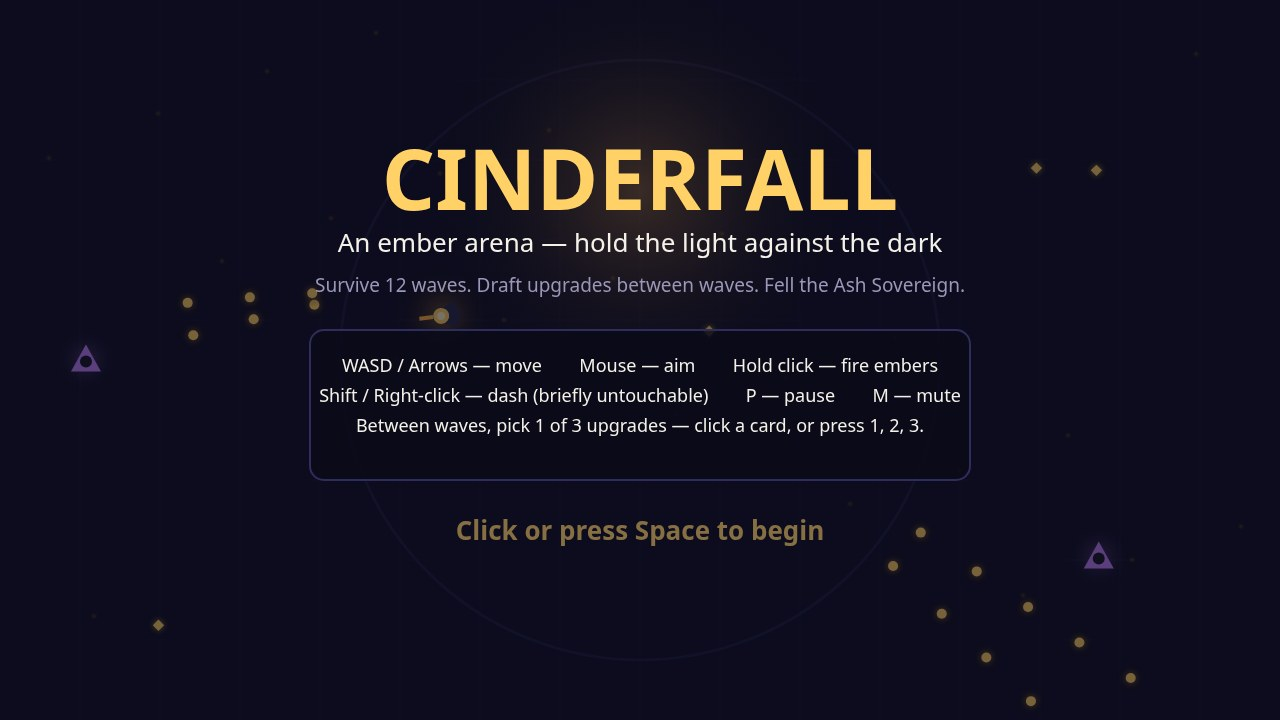
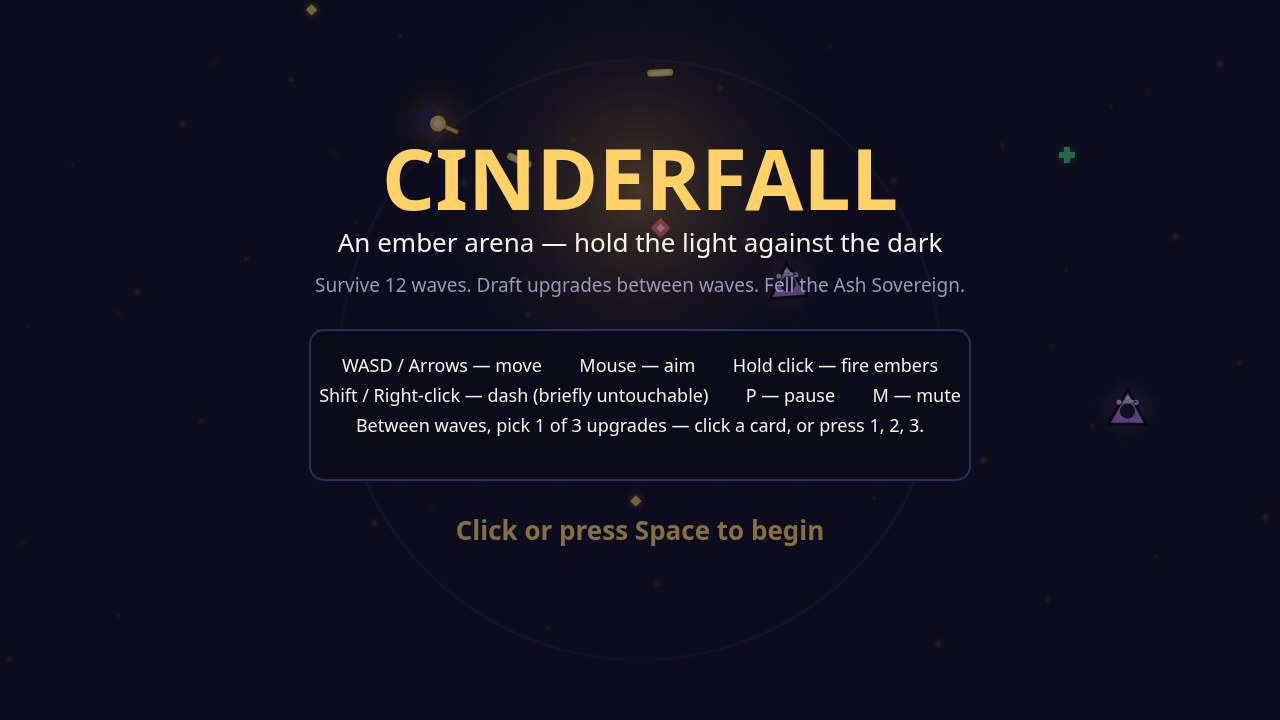
CINDERFALL fix: readable enemies, denser waves, re-captured play frame
- Every enemy kind gets its own silhouette + colour + size, all distinct
  from the player bolts (now long white-yellow capsules) and enemy fire
  (now magenta diamonds): mote is an 8-point deep-orange star, wisp a teal
  ghost with a tail, spitter a violet triangle, brute a riveted red hex,
  elites wear a spiked gold crown-ring. Dark outlines throughout.
- Density +25% via spawn budget (8 + wave*5), tighter trickle interval,
  cluster spawns from wave 5, more boss adds. No HP scaling.
- Play shot re-staged to 12s into wave 11 (12 enemies alive, all four
  kinds); ambient embers doubled.
- Verified: kit check 4 pass / 1 expected fail, gate replica all pass,
  dossier 2x byte-identical, autopilot seed 7 wins 17609 / 221 kills.

diff --git a/game/src/render.js b/game/src/render.js
@@ -61,11 +61,17 @@ export function createRenderer(canvas, fx) {
     ctx.beginPath();
     ctx.arc(FIELD.width / 2, FIELD.height / 2, 300, 0, Math.PI * 2);
     ctx.stroke();
-    // Drifting embers in the dark, purely decorative.
-    for (let i = 0; i < 24; i += 1) {
+    // Drifting embers in the dark, purely decorative — two layers, so the
+    // arena reads as a place even between waves. Deterministic in `time`.
+    for (let i = 0; i < 44; i += 1) {
       const x = ((i * 173 + time * 12) % (FIELD.width + 40)) - 20;
       const y = 40 + ((i * 97) % (FIELD.height - 80)) + Math.sin(time * 0.7 + i) * 8;
-      drawGlow(ctx, x, y, 5, '#ffb347', 0.25);
+      drawGlow(ctx, x, y, 4 + (i % 3) * 2, '#ffb347', 0.2 + (i % 3) * 0.06);
+    }
+    for (let i = 0; i < 10; i += 1) {
+      const x = ((i * 311 + time * 7) % (FIELD.width + 60)) - 30;
+      const y = 60 + ((i * 211) % (FIELD.height - 120)) + Math.cos(time * 0.5 + i * 2) * 10;
+      drawGlow(ctx, x, y, 10, '#ff8c42', 0.1);
     }
   }
 
@@ -123,6 +129,9 @@ export function createRenderer(canvas, fx) {
       ctx.beginPath();
       ctx.arc(0, 0, enemy.radius, 0, Math.PI * 2);
       ctx.fill();
+      ctx.strokeStyle = '#0b0b16';
+      ctx.lineWidth = 4;
+      ctx.stroke();
       ctx.fillStyle = '#1a1a2e';
       ctx.beginPath();
       ctx.arc(0, 0, enemy.radius * 0.62, 0, Math.PI * 2);
@@ -140,32 +149,55 @@ export function createRenderer(canvas, fx) {
       ctx.lineTo(enemy.radius * 1.25, -enemy.radius * 1.25);
       ctx.stroke();
     } else if (enemy.kind === 'mote') {
+      // An eight-point ember star: deep orange, dark core, white-hot heart.
+      // Nothing else in the game is a star, so it can never read as a bolt.
       ctx.rotate(time * 2 + enemy.phase);
       ctx.fillStyle = enemy.color;
-      for (let i = 0; i < 4; i += 1) {
-        ctx.rotate(Math.PI / 2);
+      ctx.beginPath();
+      for (let i = 0; i < 16; i += 1) {
+        const a = (i / 16) * Math.PI * 2;
+        const r = i % 2 === 0 ? enemy.radius : enemy.radius * 0.45;
+        const px = Math.cos(a) * r;
+        const py = Math.sin(a) * r;
+        if (i === 0) ctx.moveTo(px, py);
+        else ctx.lineTo(px, py);
+      }
+      ctx.closePath();
+      ctx.fill();
+      ctx.strokeStyle = '#0b0b16';
+      ctx.lineWidth = 2.5;
+      ctx.stroke();
+      ctx.fillStyle = '#1a1a2e';
+      ctx.beginPath();
+      ctx.arc(0, 0, enemy.radius * 0.42, 0, Math.PI * 2);
+      ctx.fill();
+      ctx.fillStyle = '#fff3c4';
+      ctx.beginPath();
+      ctx.arc(0, 0, enemy.radius * 0.2, 0, Math.PI * 2);
+      ctx.fill();
+    } else if (enemy.kind === 'wisp') {
+      // A teal ghost: round head, wavy trailing tail, two white eyes.
+      const tail = Math.sin(time * 6 + enemy.phase) * 4;
+      ctx.fillStyle = enemy.color;
+      for (let i = 1; i <= 3; i += 1) {
         ctx.beginPath();
-        ctx.moveTo(0, -enemy.radius);
-        ctx.lineTo(4, 0);
-        ctx.lineTo(-4, 0);
-        ctx.closePath();
+        ctx.arc(-i * enemy.radius * 0.55, tail * (i / 3), enemy.radius * (0.7 - i * 0.16), 0, Math.PI * 2);
         ctx.fill();
       }
       ctx.beginPath();
-      ctx.arc(0, 0, enemy.radius * 0.55, 0, Math.PI * 2);
-      ctx.fillStyle = '#fff3c4';
-      ctx.fill();
-    } else if (enemy.kind === 'wisp') {
-      ctx.fillStyle = enemy.color;
-      ctx.beginPath();
       ctx.arc(0, 0, enemy.radius * (1 + wobble), 0, Math.PI * 2);
       ctx.fill();
-      ctx.fillStyle = 'rgba(255,255,255,0.85)';
+      ctx.strokeStyle = '#0b0b16';
+      ctx.lineWidth = 2.5;
+      ctx.stroke();
+      ctx.fillStyle = 'rgba(255,255,255,0.9)';
       ctx.beginPath();
-      ctx.arc(-4, -3, 3, 0, Math.PI * 2);
-      ctx.arc(4, -3, 3, 0, Math.PI * 2);
+      ctx.arc(-5, -4, 3.5, 0, Math.PI * 2);
+      ctx.arc(5, -4, 3.5, 0, Math.PI * 2);
       ctx.fill();
     } else if (enemy.kind === 'spitter') {
+      // A violet arrowhead: a triangle with a dark maw and three pale dots.
+      ctx.rotate(Math.sin(time * 1.5 + enemy.phase) * 0.15);
       ctx.fillStyle = enemy.color;
       ctx.beginPath();
       ctx.moveTo(0, -enemy.radius);
@@ -173,12 +205,21 @@ export function createRenderer(canvas, fx) {
       ctx.lineTo(-enemy.radius, enemy.radius * 0.8);
       ctx.closePath();
       ctx.fill();
+      ctx.strokeStyle = '#0b0b16';
+      ctx.lineWidth = 3;
+      ctx.stroke();
       ctx.fillStyle = '#1a1a2e';
       ctx.beginPath();
       ctx.arc(0, 2, enemy.radius * 0.4, 0, Math.PI * 2);
       ctx.fill();
+      ctx.fillStyle = 'rgba(255,255,255,0.85)';
+      ctx.beginPath();
+      ctx.arc(-enemy.radius * 0.45, -enemy.radius * 0.35, 2.5, 0, Math.PI * 2);
+      ctx.arc(enemy.radius * 0.45, -enemy.radius * 0.35, 2.5, 0, Math.PI * 2);
+      ctx.arc(0, -enemy.radius * 0.55, 2.5, 0, Math.PI * 2);
+      ctx.fill();
     } else {
-      // Brute: a heavy hex slab.
+      // Brute: a heavy hex slab with a dark core and rivets.
       ctx.rotate(wobble);
       ctx.fillStyle = enemy.color;
       ctx.beginPath();
@@ -191,10 +232,20 @@ export function createRenderer(canvas, fx) {
       }
       ctx.closePath();
       ctx.fill();
+      ctx.strokeStyle = '#0b0b16';
+      ctx.lineWidth = 3;
+      ctx.stroke();
       ctx.fillStyle = 'rgba(0,0,0,0.35)';
       ctx.beginPath();
       ctx.arc(0, 0, enemy.radius * 0.55, 0, Math.PI * 2);
       ctx.fill();
+      ctx.fillStyle = 'rgba(255,255,255,0.55)';
+      for (let i = 0; i < 6; i += 1) {
+        const a = (i / 6) * Math.PI * 2 + Math.PI / 6;
+        ctx.beginPath();
+        ctx.arc(Math.cos(a) * enemy.radius * 0.72, Math.sin(a) * enemy.radius * 0.72, 2.5, 0, Math.PI * 2);
+        ctx.fill();
+      }
     }
     ctx.restore();
     if (enemy.flash > 0) {
@@ -206,11 +257,26 @@ export function createRenderer(canvas, fx) {
       ctx.globalAlpha = 1;
     }
     if (enemy.elite) {
+      // Elites wear a spiked gold crown-ring: gold is theirs alone.
       ctx.strokeStyle = '#facc15';
-      ctx.lineWidth = 2;
+      ctx.lineWidth = 2.5;
       ctx.beginPath();
-      ctx.arc(enemy.x, enemy.y, enemy.radius + 5, 0, Math.PI * 2);
+      ctx.arc(enemy.x, enemy.y, enemy.radius + 6, 0, Math.PI * 2);
       ctx.stroke();
+      ctx.fillStyle = '#facc15';
+      for (let i = 0; i < 8; i += 1) {
+        const a = (i / 8) * Math.PI * 2 + time * 0.8;
+        const sx = enemy.x + Math.cos(a) * (enemy.radius + 6);
+        const sy = enemy.y + Math.sin(a) * (enemy.radius + 6);
+        const tx = enemy.x + Math.cos(a) * (enemy.radius + 13);
+        const ty = enemy.y + Math.sin(a) * (enemy.radius + 13);
+        ctx.beginPath();
+        ctx.moveTo(sx + Math.cos(a + Math.PI / 2) * 3, sy + Math.sin(a + Math.PI / 2) * 3);
+        ctx.lineTo(tx, ty);
+        ctx.lineTo(sx - Math.cos(a + Math.PI / 2) * 3, sy - Math.sin(a + Math.PI / 2) * 3);
+        ctx.closePath();
+        ctx.fill();
+      }
     }
     if (enemy.hp < enemy.maxHp && !enemy.boss) {
       const w = enemy.radius * 2;
@@ -223,18 +289,33 @@ export function createRenderer(canvas, fx) {
 
   function drawBullets(world) {
     for (const bullet of world.bullets) {
-      drawGlow(ctx, bullet.x, bullet.y, 14, '#ffb347', 0.5);
-      ctx.fillStyle = '#ffd166';
-      ctx.beginPath();
-      ctx.arc(bullet.x, bullet.y, bullet.radius, 0, Math.PI * 2);
+      // Player bolts are long white-yellow capsules with a hot core: no enemy
+      // is long, and no enemy is white-yellow, so a bolt reads as a bolt.
+      const angle = Math.atan2(bullet.vy, bullet.vx);
+      drawGlow(ctx, bullet.x, bullet.y, 12, '#fde047', 0.35);
+      ctx.save();
+      ctx.translate(bullet.x, bullet.y);
+      ctx.rotate(angle);
+      ctx.fillStyle = '#fde047';
+      roundRect(ctx, -13, -3.5, 26, 7, 3.5);
       ctx.fill();
+      ctx.fillStyle = '#fffbe6';
+      roundRect(ctx, -9, -2, 18, 4, 2);
+      ctx.fill();
+      ctx.restore();
     }
     for (const bullet of world.enemyBullets) {
-      drawGlow(ctx, bullet.x, bullet.y, 14, '#c084fc', 0.45);
-      ctx.fillStyle = '#e9d5ff';
-      ctx.beginPath();
-      ctx.arc(bullet.x, bullet.y, bullet.radius, 0, Math.PI * 2);
-      ctx.fill();
+      // Enemy fire is a magenta diamond with a pale core: a shape no enemy
+      // and no player bolt uses, in a colour no enemy uses.
+      drawGlow(ctx, bullet.x, bullet.y, 12, '#ec4899', 0.4);
+      ctx.save();
+      ctx.translate(bullet.x, bullet.y);
+      ctx.rotate(Math.PI / 4);
+      ctx.fillStyle = '#ec4899';
+      ctx.fillRect(-7, -7, 14, 14);
+      ctx.fillStyle = '#fdf2f8';
+      ctx.fillRect(-3, -3, 6, 6);
+      ctx.restore();
     }
   }
 

diff --git a/game/src/enemies.js b/game/src/enemies.js
@@ -23,14 +23,16 @@ export function buildWave(wave, random) {
   if (BOSS_WAVES.includes(wave)) {
     const boss = wave === LAST_WAVE ? 'sovereign' : 'warden';
     queue.push({ kind: boss, elite: false, delay: 1.2, boss: true });
-    const adds = wave === LAST_WAVE ? 10 : 8;
+    const adds = wave === LAST_WAVE ? 13 : 10;
     for (let i = 0; i < adds; i += 1) {
       const kind = i % 3 === 0 ? 'wisp' : 'mote';
-      queue.push({ kind, elite: false, delay: 4 + random() * 4, boss: false });
+      queue.push({ kind, elite: false, delay: 3 + random() * 3, boss: false });
     }
     return queue;
   }
-  let budget = 6 + wave * 4;
+  // +25% spawn budget over the original (8 + wave*5 vs 6 + wave*4): density
+  // is the cheap difficulty lever — enemy HP is NOT raised to compensate.
+  let budget = 8 + wave * 5;
   const kinds = kindsFor(wave);
   const picks = [];
   while (budget > 0) {
@@ -45,9 +47,15 @@ export function buildWave(wave, random) {
     const j = Math.floor(random() * (i + 1));
     [picks[i], picks[j]] = [picks[j], picks[i]];
   }
-  const interval = Math.max(0.55, 1.5 - wave * 0.09);
+  const interval = Math.max(0.5, 1.35 - wave * 0.09);
+  // From wave 5, every third spawn arrives together with the previous one:
+  // the wave lands in small clusters instead of a thin trickle, so several
+  // enemies are on screen at once instead of one at a time. Total count is
+  // unchanged (the budget above); only the pacing is denser.
+  const clusterEvery = wave >= 5 ? 3 : 0;
   picks.forEach((kind, index) => {
-    queue.push({ kind, elite: false, delay: index === 0 ? 0.8 : interval * (0.7 + random() * 0.6), boss: false });
+    const clustered = clusterEvery > 0 && index > 0 && index % clusterEvery === 0;
+    queue.push({ kind, elite: false, delay: index === 0 ? 0.8 : clustered ? 0 : interval * (0.7 + random() * 0.6), boss: false });
   });
   const elites = wave >= 8 ? 2 : wave >= 4 ? 1 : 0;
   for (let i = 0; i < elites; i += 1) {

diff --git a/game/src/config.js b/game/src/config.js
@@ -31,12 +31,16 @@ export const PLAYER = {
   pickupRadius: 90,
 };
 
-/** Enemy kinds. hp and speed scale with the wave; score is the base kill value. */
+/** Enemy kinds. hp and speed scale with the wave; score is the base kill value.
+ *  Radii are large on purpose: every kind must read as a body at a glance,
+ *  never as a dot — and no kind shares a silhouette or a colour with the
+ *  player's bolts (white-yellow capsules) or with enemy bullets (magenta
+ *  diamonds). */
 export const ENEMIES = {
-  mote: { radius: 13, speed: 150, hp: 18, score: 10, damage: 8, cost: 1, color: '#ffb347' },
-  wisp: { radius: 12, speed: 215, hp: 14, score: 15, damage: 8, cost: 2, color: '#5eead4' },
-  spitter: { radius: 15, speed: 105, hp: 30, score: 20, damage: 10, cost: 2, color: '#c084fc' },
-  brute: { radius: 24, speed: 72, hp: 110, score: 40, damage: 16, cost: 4, color: '#f87171' },
+  mote: { radius: 17, speed: 150, hp: 18, score: 10, damage: 8, cost: 1, color: '#f97316' },
+  wisp: { radius: 16, speed: 215, hp: 14, score: 15, damage: 8, cost: 2, color: '#5eead4' },
+  spitter: { radius: 19, speed: 105, hp: 30, score: 20, damage: 10, cost: 2, color: '#c084fc' },
+  brute: { radius: 28, speed: 72, hp: 110, score: 40, damage: 16, cost: 4, color: '#f87171' },
 };
 
 /** Elites are bigger, tougher, worth triple and always drop a heart. */
@@ -65,7 +69,7 @@ export const PICKUPS = {
 };
 
 /** How many things can exist at once; the pools are allocated once, at boot. */
-export const POOLS = { enemies: 96, bullets: 320, enemyBullets: 220, particles: 640, texts: 48, pickups: 96 };
+export const POOLS = { enemies: 128, bullets: 320, enemyBullets: 220, particles: 640, texts: 48, pickups: 96 };
 
 /**
  * The upgrade draft: ten upgrades, each with a level cap. Between waves the

diff --git a/game/src/shots.js b/game/src/shots.js
@@ -9,8 +9,8 @@ import { SCREEN_DRAFT, SCREEN_OVER, SCREEN_PLAY, SCREEN_TITLE, SCREEN_VICTORY } 
 import { victoryBuild } from './upgrades.js';
 
 const TITLE_HOLD_SECONDS = 5;
-const PLAY_HOLD_SECONDS = 8;
-const PLAY_WAVE = 8;
+const PLAY_HOLD_SECONDS = 12;
+const PLAY_WAVE = 11;
 const DRAFT_WAVE = 3;
 const LIMIT_SECONDS = 1500;
 
@@ -142,7 +142,9 @@ export function stageShot(name, world, fx) {
       continue;
     }
     if (name === 'play') {
-      // Eight seconds into wave 8: mid-combat, the wave at full strength.
+      // Twelve seconds into wave 11: the wave at full strength — a dozen
+      // enemies of all four kinds on screen, bolts in flight, spitters
+      // firing. Measured with the density probe (seed 7): 12 alive.
       if (world.state.wave >= PLAY_WAVE) {
         if (wave5At === null) wave5At = world.state.time;
         if (world.state.time - wave5At >= PLAY_HOLD_SECONDS) {
